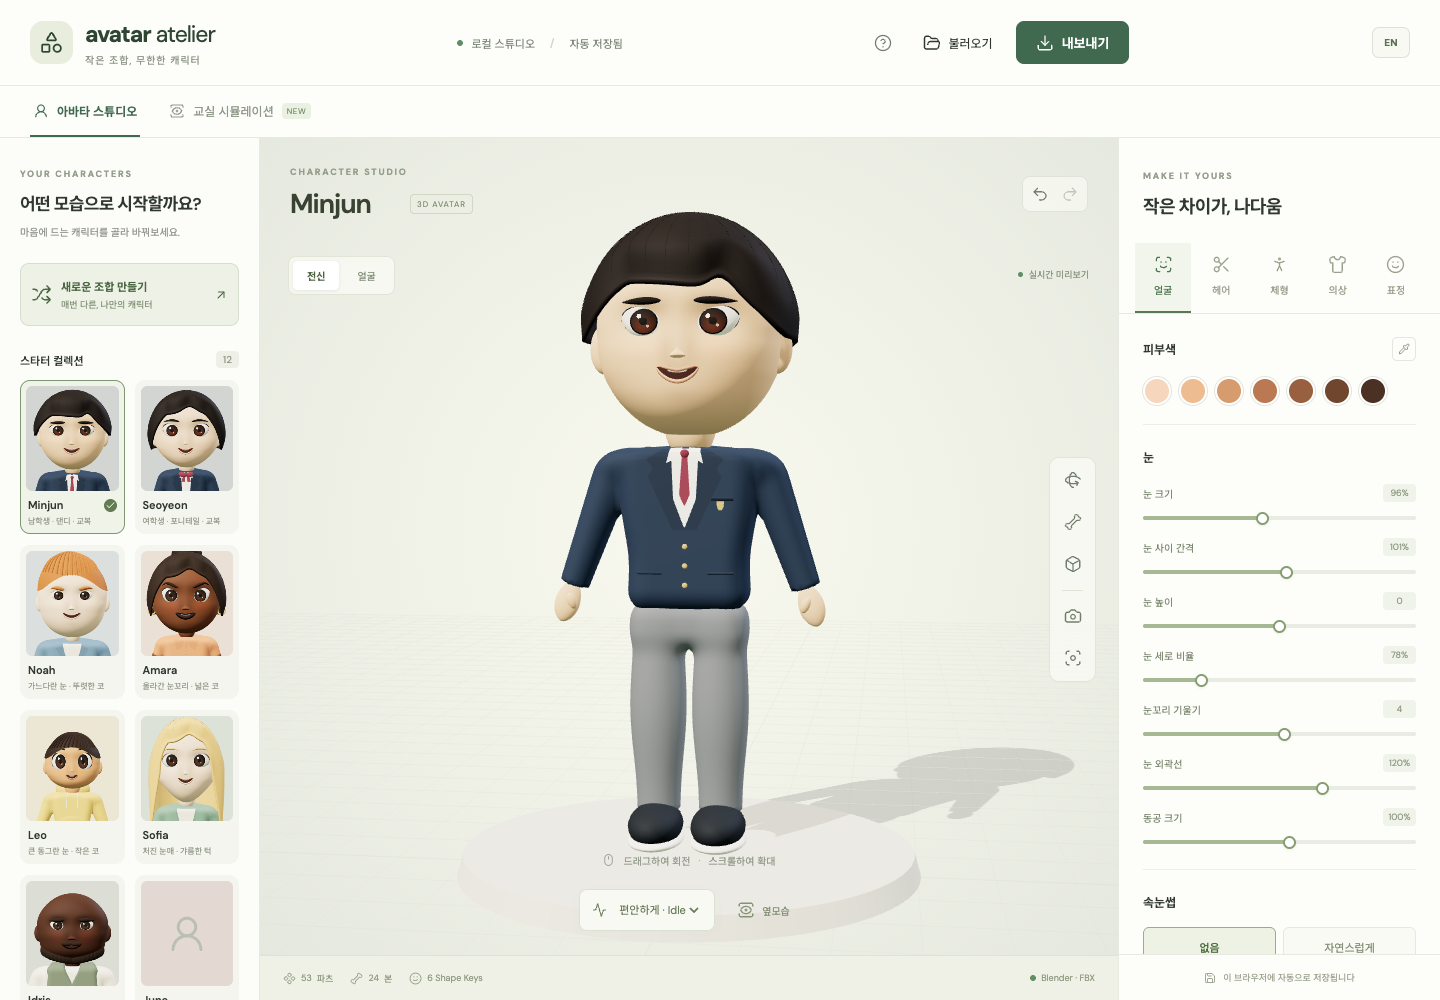
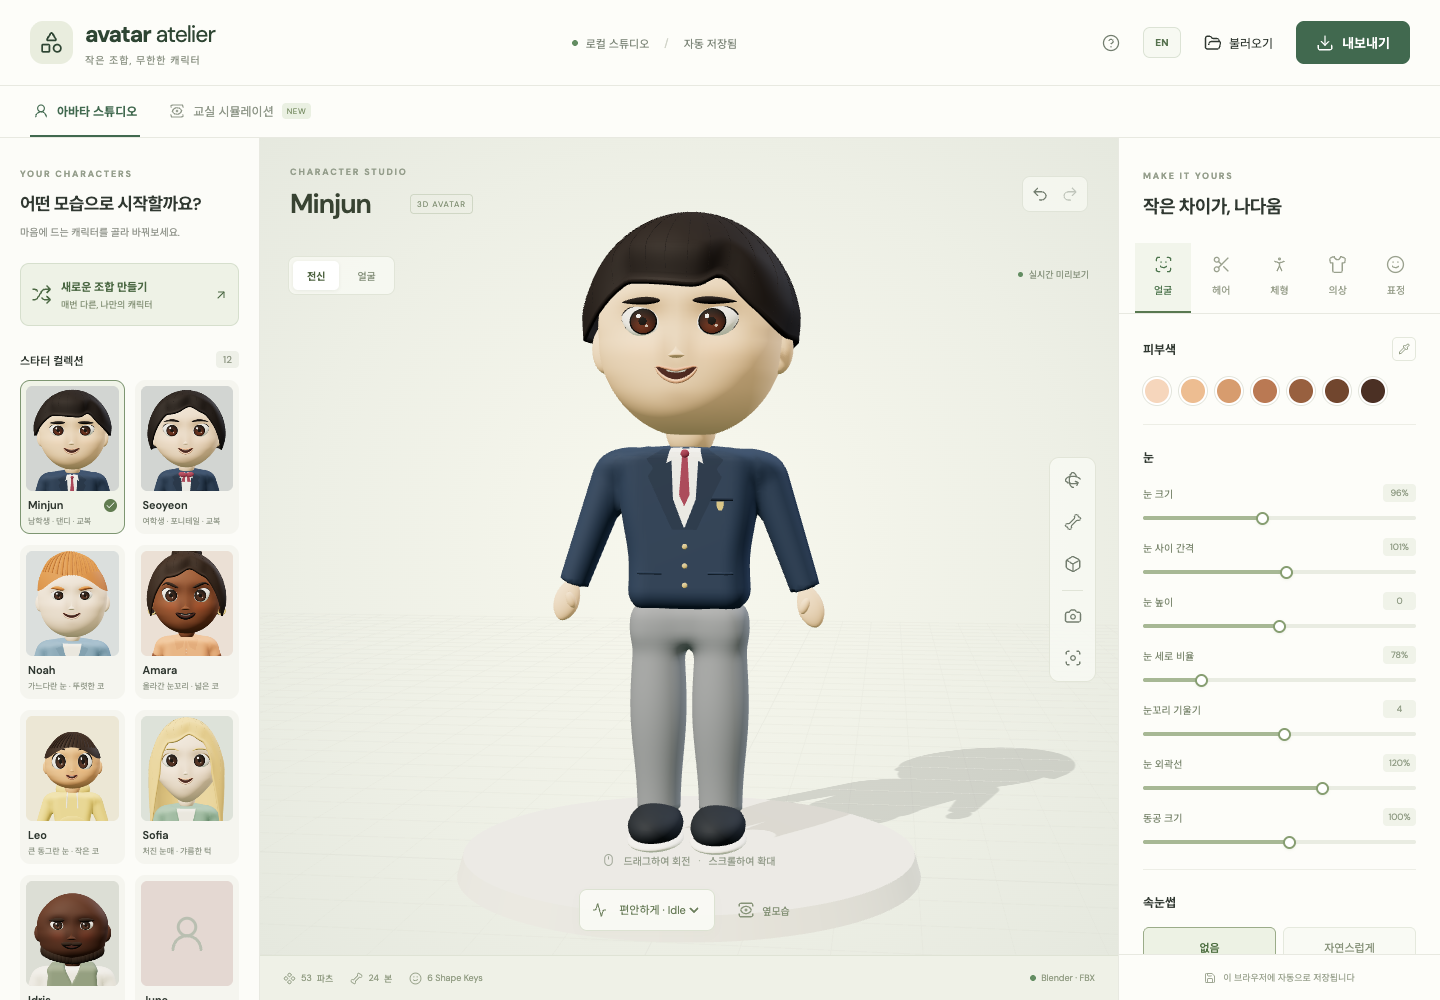
Refine header actions and translate help dialog

diff --git a/src/main.js b/src/main.js
@@ -17,7 +17,7 @@ let tab='face', avatar, skeletonHelper, mode='idle', spin=false, wire=false, rig
 const labels={face:'얼굴',hair:'헤어',body:'체형',outfit:'의상',expression:'표정'};
 const tabIcons={face:'scan-face',hair:'scissors',body:'person-standing',outfit:'shirt',expression:'smile'};
 const html=`
-<header class="topbar"><a class="brand" href="/" aria-label="Avatar Atelier 홈"><span class="brand-icon">${icon('shapes')}</span><span>avatar<span class="brand-light"> atelier</span><small>작은 조합, 무한한 캐릭터</small></span></a><div class="top-center"><span class="status-dot"></span> 로컬 스튜디오 <span class="divider">/</span> <span id="save-status">자동 저장됨</span></div><div class="header-actions"><button class="icon-btn" id="help" title="사용 안내" aria-label="사용 안내">${icon('circle-help')}</button><button class="quiet" id="load">${icon('folder-open')} 불러오기</button><button class="primary" id="export-open">${icon('download')} 내보내기</button></div><button class="language-toggle" id="language-toggle" type="button" aria-label="언어를 English로 변경" title="언어를 English로 변경">EN</button></header>
+<header class="topbar"><a class="brand" href="/" aria-label="Avatar Atelier 홈"><span class="brand-icon">${icon('shapes')}</span><span>avatar<span class="brand-light"> atelier</span><small>작은 조합, 무한한 캐릭터</small></span></a><div class="top-center"><span class="status-dot"></span> 로컬 스튜디오 <span class="divider">/</span> <span id="save-status">자동 저장됨</span></div><div class="header-actions"><button class="icon-btn" id="help" title="사용 안내" aria-label="사용 안내">${icon('circle-help')}</button><button class="language-toggle" id="language-toggle" type="button" aria-label="언어를 English로 변경" title="언어를 English로 변경">EN</button><button class="quiet" id="load">${icon('folder-open')} 불러오기</button><button class="primary" id="export-open">${icon('download')} 내보내기</button></div></header>
 <main class="workspace"><aside class="library"><div class="library-title"><span class="eyebrow">YOUR CHARACTERS</span><h2>어떤 모습으로 시작할까요?</h2><p>마음에 드는 캐릭터를 골라 바꿔보세요.</p></div><button class="random-card" id="random">${icon('shuffle')}<span>새로운 조합 만들기<small>매번 다른, 나만의 캐릭터</small></span>${icon('arrow-up-right')}</button><div class="section-line"><h3>스타터 컬렉션</h3><span>12</span></div><div class="preset-grid">${PRESETS.map((p,i)=>`<button class="preset ${i===0?'selected':''}" data-preset="${i}" title="${p.tag}"><div class="preset-img" style="--swatch:${p.shirtColor}"><img alt="${p.name} 3D 아바타" id="thumb-${i}"/><span class="preset-placeholder">${icon('user-round')}</span></div><div class="preset-name">${p.name}<span class="preset-check">${icon('check')}</span></div><small>${p.tag}</small></button>`).join('')}</div><div class="library-note">${icon('layers-3')}<p>도형 하나부터 나답게.<br><span>모든 캐릭터는 직접 편집할 수 있어요.</span></p></div></aside>
 <section class="stage-wrap"><div class="stage-heading"><div><div class="eyebrow">CHARACTER STUDIO</div><div class="name-row"><input id="avatar-name" aria-label="캐릭터 이름" maxlength="40"/><span class="pill">3D AVATAR</span></div></div><div class="undo-group"><button class="icon-btn" id="undo" title="되돌리기 (⌘Z)" aria-label="되돌리기">${icon('undo-2')}</button><button class="icon-btn" id="redo" title="다시 실행" aria-label="다시 실행">${icon('redo-2')}</button></div></div><div id="viewport"><div class="view-tabs"><button data-view="full" class="active">전신</button><button data-view="face">얼굴</button></div><div class="stage-tag"><span class="status-dot"></span> 실시간 미리보기</div><div class="stage-tools"><button class="icon-btn" id="rotate" title="자동 회전" aria-label="자동 회전">${icon('rotate-3d')}</button><button class="icon-btn" id="skeleton" title="뼈대 보기" aria-label="뼈대 보기">${icon('bone')}</button><button class="icon-btn" id="wire" title="와이어프레임" aria-label="와이어프레임">${icon('box')}</button><span></span><button class="icon-btn" id="capture" title="PNG 저장" aria-label="PNG 저장">${icon('camera')}</button><button class="icon-btn" id="reset-camera" title="시점 초기화" aria-label="시점 초기화">${icon('focus')}</button></div><div class="orbit-hint">${icon('mouse')} 드래그하여 회전 <b>·</b> 스크롤하여 확대</div><div class="stage-bottom"><div class="pose-select">${icon('activity')}<select id="pose" aria-label="포즈와 애니메이션"><option value="idle">편안하게 · Idle</option><option value="relaxed">기본 자세</option><option value="walk">걷기 · Walk</option><option value="sit">앉기</option><option value="shy">고개 숙이기</option><option value="look">두리번</option><option value="talk">이야기</option><option value="cross">팔짱</option><option value="tpose">T 포즈</option></select></div><button class="quiet" id="side-view">${icon('view')} 옆모습</button></div></div><footer class="stage-footer"><span>${icon('component')} <span id="mesh-count">—</span> 파츠</span><span>${icon('bone')} <span id="bone-count">—</span> 본</span><span>${icon('smile')} 6 Shape Keys</span><span class="ready-label"><span class="status-dot"></span> Blender · FBX</span></footer></section>
 <aside class="editor"><div class="editor-heading"><span class="eyebrow">MAKE IT YOURS</span><h2>작은 차이가, 나다움</h2></div><nav class="editor-tabs">${Object.entries(labels).map(([k,l])=>`<button data-tab="${k}" class="${k===tab?'active':''}">${icon(tabIcons[k])}<span>${l}</span></button>`).join('')}</nav><div id="controls"></div><div class="editor-bottom">${icon('save')} 이 브라우저에 자동으로 저장됩니다</div></aside></main>

diff --git a/src/i18n.js b/src/i18n.js
@@ -1,6 +1,6 @@
 const english = {
   '작은 조합, 무한한 캐릭터': 'Small choices, infinite characters', '로컬 스튜디오': 'Local studio', '자동 저장됨': 'Saved automatically',
-  '사용 안내': 'Help', '불러오기': 'Load', '내보내기': 'Export', '아바타 스튜디오': 'Avatar Studio', '교실 시뮬레이션': 'Classroom Simulation',
+  '사용 안내': 'Help', '불러오기': 'Load', '내보내기': 'Export', '닫기': 'Close', '아바타 스튜디오': 'Avatar Studio', '교실 시뮬레이션': 'Classroom Simulation',
   '어떤 모습으로 시작할까요?': 'Who would you like to create?', '마음에 드는 캐릭터를 골라 바꿔보세요.': 'Choose a character, then make it your own.',
   '새로운 조합 만들기': 'Create a new look', '매번 다른, 나만의 캐릭터': 'A different character every time', '스타터 컬렉션': 'Starter collection',
   '도형 하나부터 나답게.': 'From simple shapes to your own style.', '모든 캐릭터는 직접 편집할 수 있어요.': 'Every character is ready to edit.',
@@ -29,6 +29,16 @@ const english = {
   '수업 듣기': 'Listening', '필기하기': 'Taking notes', '손들기': 'Raising hands', '고개 돌리기': 'Looking around', '수업 설명하기': 'Teaching', '이야기하기': 'Talking', '걸어 다니기': 'Walking around', '자리에서 쉬기': 'Resting at a desk', '교실 살펴보기': 'Checking the room', '교사': 'Teacher', '2명': '2 students', '3명': '3 students', '4명': '4 students',
   '같은 수업, 서로 다른 자세.': 'Same lesson, different poses.', '작은 움직임을 천천히 살펴보세요.': 'Watch the small movements unfold.', '친구와 이야기하고, 통로를 걷고.': 'Chat with friends, walk the aisles.', '쉬는 시간의 일상을 살펴보세요.': 'Observe everyday break-time moments.', '원하는 각도에서 관찰하세요.': 'Observe from any angle.', '아바타의 움직임은 자동으로 이어집니다.': 'Avatar motions continue automatically.',
   '다양한 헤어스타일과 일상복의 아바타가 함께하는 교실입니다.': 'A classroom with avatars in varied hairstyles and everyday outfits.',
+  '나만의 아바타, 처음부터 끝까지': 'Your avatar, from start to finish',
+  '조합하기': 'Build your look',
+  '스타터를 고르거나 새로운 조합을 만드세요. 피부색과 얼굴형, 체형, 나이, 머리, 옷을 독립적으로 조절할 수 있습니다.': 'Choose a starter or create a new look. Adjust skin tone, face shape, body, age, hair, and clothing independently.',
+  '표정과 움직임': 'Expressions and movement',
+  '표정 탭에서 6가지 감정과 시선을 조절하세요. 아래의 포즈 메뉴에서 걷기와 T 포즈를 확인하고, 뼈대 버튼으로 리깅을 볼 수 있습니다.': 'Use the Expression tab to adjust six emotions and gaze. Preview walking and a T-pose below, or use the skeleton button to view the rig.',
+  'Blender에서 편집': 'Edit in Blender',
+  '.blend 파일을 열어 파츠를 선택하고 Edit Mode에서 수정하세요. Armature의 Pose Mode로 포즈를 바꾸고, 눈·입·눈썹 메시의 Shape Keys로 표정을 조절합니다.': 'Open a .blend file, select a part, and edit it in Edit Mode. Change poses in the Armature Pose Mode and control expressions with the eye, mouth, and brow Shape Keys.',
+  'Unity에서 사용': 'Use in Unity',
+  'FBX를 Assets로 가져온 후 Rig → Humanoid → Create From This Model → Apply를 선택하세요. Configure에서 매핑과 T 포즈를 확인합니다. 손은 단순화되어 손가락 본은 없습니다.': 'Import the FBX into Assets, then choose Rig → Humanoid → Create From This Model → Apply. Check mapping and the T-pose in Configure. Hands are simplified and have no finger bones.',
+  '현재 생성은 기본 도형을 조합하는 로컬 절차적 생성 방식입니다. 외부 생성형 AI나 사진 분석은 연결하지 않았습니다. 얼굴의 6개 Shape Key는 웃음·정색·슬픔·화남·당황·눈 깜빡임이며 보통 표정은 기본 형태입니다.': 'This is a local procedural generator built from basic shapes. It does not connect to external generative AI or photo analysis. Six facial Shape Keys control smile, serious, sad, angry, surprised, and blink; neutral is the base shape.',
 };
 
 const attributes = ['aria-label', 'title', 'placeholder'];
